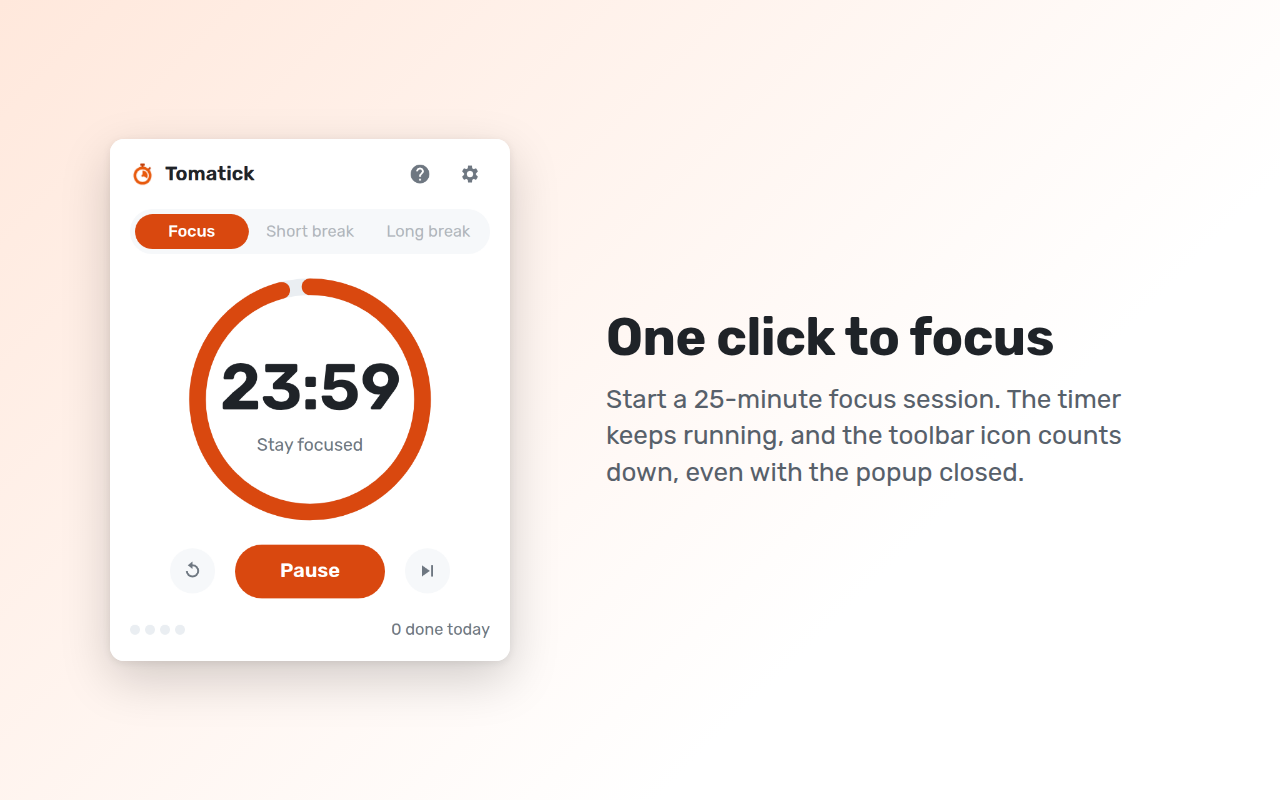
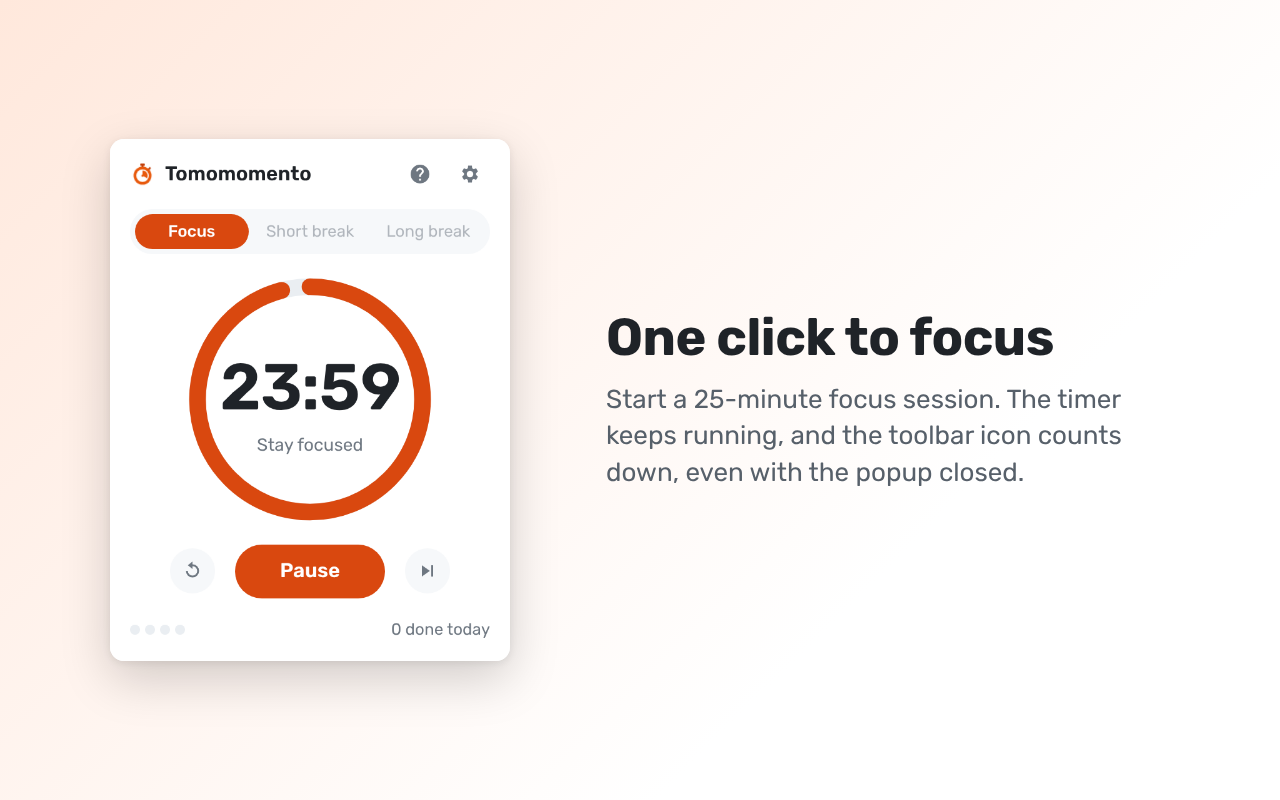
Rename the app to Tomomomento
Another free Pomodoro-style web timer already uses the name Tomatick
(tomatick.app), so the extension, web app, legal pages, README and store
kit now say Tomomomento ("Tomomomento: Focus Timer" in the store).
Store images are regenerated, and the small promo tile is resized to fit
the longer name.

Unchanged on purpose: the web app's storage keys and lock name (so current
users keep their settings), the GitHub repo URLs, and the support email,
until their replacements exist.

Claude-Session: https://claude.ai/code/session_016vYsunhsnhPfmSXmqhePFb

diff --git a/public/legal.html b/public/legal.html
@@ -8,7 +8,7 @@
   <head>
     <meta charset="utf-8" />
     <meta name="viewport" content="width=device-width, initial-scale=1" />
-    <title>Privacy, terms and credits · Tomatick</title>
+    <title>Privacy, terms and credits · Tomomomento</title>
     <link rel="icon" href="icons/icon-32.png" />
     <link rel="stylesheet" href="legal.css" />
   </head>
@@ -17,7 +17,7 @@
       <header>
         <img src="icons/icon-48.png" width="40" height="40" alt="" />
         <div>
-          <h1>Tomatick</h1>
+          <h1>Tomomomento</h1>
           <p class="muted">Last updated <span data-about="legalUpdated"></span></p>
         </div>
       </header>
@@ -32,7 +32,7 @@
       <section id="privacy">
         <h2>Privacy policy</h2>
         <p>
-          <strong>Tomatick doesn't collect, transmit, sell, or share any personal data.</strong>
+          <strong>Tomomomento doesn't collect, transmit, sell, or share any personal data.</strong>
           There's no account, no analytics, no ads, and no tracking.
         </p>
         <h3>What stays on your computer</h3>
@@ -54,7 +54,7 @@
               target="_blank"
               rel="noopener"
               >GitHub</a
-            >. Tomatick adds no cookies, analytics, or tracking, and makes no other network
+            >. Tomomomento adds no cookies, analytics, or tracking, and makes no other network
             requests.
           </li>
           <li>Alert sounds are generated on your device.</li>
@@ -72,12 +72,12 @@
             The optional site blocker compares the addresses of pages you open against your list of
             blocked sites, inside Chrome, while a focus session is running. It doesn't read page
             content, and it doesn't record or send your browsing history anywhere. Chrome asks your
-            permission when you turn it on, and Tomatick gives that permission back when you turn it
-            off.
+            permission when you turn it on, and Tomomomento gives that permission back when you turn
+            it off.
           </li>
         </ul>
         <h3>Deleting your data</h3>
-        <p data-only="extension">Uninstalling Tomatick deletes everything it stored.</p>
+        <p data-only="extension">Uninstalling Tomomomento deletes everything it stored.</p>
         <p data-only="web" hidden>
           Clearing this site's data in your browser's settings deletes everything the web app
           stored.
@@ -88,7 +88,7 @@
           them.
         </p>
         <h3>Children</h3>
-        <p>Tomatick collects no information from anyone, including children.</p>
+        <p>Tomomomento collects no information from anyone, including children.</p>
         <h3>Changes</h3>
         <p>
           If this policy changes, the new version will appear here and in the extension's store
@@ -98,18 +98,18 @@
 
       <section id="terms">
         <h2>Terms of use</h2>
-        <p>By installing or using Tomatick, you agree to these terms.</p>
-        <h3>Using Tomatick</h3>
+        <p>By installing or using Tomomomento, you agree to these terms.</p>
+        <h3>Using Tomomomento</h3>
         <p>
-          Tomatick is free, and always will be. You're welcome to use it for personal or work use.
-          Don't use it for anything unlawful.
+          Tomomomento is free, and always will be. You're welcome to use it for personal or work
+          use. Don't use it for anything unlawful.
         </p>
         <h3>No guarantees</h3>
         <p>
-          Tomatick is provided "as is", without warranties of any kind. I work to keep it reliable,
-          but I can't promise it will always be accurate, available, or free of bugs. For example, a
-          timer can end late if your computer sleeps. Don't rely on it for anything where a missed
-          alert could cause harm, like medication or cooking.
+          Tomomomento is provided "as is", without warranties of any kind. I work to keep it
+          reliable, but I can't promise it will always be accurate, available, or free of bugs. For
+          example, a timer can end late if your computer sleeps. Don't rely on it for anything where
+          a missed alert could cause harm, like medication or cooking.
         </p>
         <p>
           The site blocker is a focus aid, not a security or parental-control tool. It's easy to
@@ -118,11 +118,11 @@
         <h3>Limit of liability</h3>
         <p>
           To the fullest extent the law allows, I'm not liable for any damages or losses that come
-          from using, or not being able to use, Tomatick.
+          from using, or not being able to use, Tomomomento.
         </p>
         <h3>Ownership</h3>
         <p>
-          Tomatick, its code and its design are © <span data-about="copyrightYear"></span>
+          Tomomomento, its code and its design are © <span data-about="copyrightYear"></span>
           <span data-about="author"></span>. The source code is open under the
           <a
             href="https://github.com/jtpoltorak/tomatick/blob/main/LICENSE"
@@ -134,9 +134,9 @@
         </p>
         <h3>Changes and ending</h3>
         <p>
-          I may update these terms; the date at the top shows when they last changed. Using Tomatick
-          after a change means you accept the new terms. You can stop at any time by uninstalling
-          it.
+          I may update these terms; the date at the top shows when they last changed. Using
+          Tomomomento after a change means you accept the new terms. You can stop at any time by
+          uninstalling it.
         </p>
       </section>
 
@@ -163,21 +163,21 @@
         </ul>
         <p class="muted">
           Pomodoro® and the Pomodoro Technique® are registered trademarks of Francesco Cirillo.
-          Tomatick is an independent timer and isn't affiliated with, associated with, or endorsed
-          by Francesco Cirillo or the Pomodoro Technique®.
+          Tomomomento is an independent timer and isn't affiliated with, associated with, or
+          endorsed by Francesco Cirillo or the Pomodoro Technique®.
         </p>
       </section>
 
       <section id="contact">
         <h2>Contact</h2>
         <p>
-          Questions, bug reports, or ideas: <a data-about="email"></a>. Tomatick is made by one
+          Questions, bug reports, or ideas: <a data-about="email"></a>. Tomomomento is made by one
           person, <span data-about="author"></span>.
         </p>
       </section>
 
       <footer class="muted">
-        Tomatick <span data-about="version"></span> · © <span data-about="copyrightYear"></span>
+        Tomomomento <span data-about="version"></span> · © <span data-about="copyrightYear"></span>
         <span data-about="author"></span>
       </footer>
     </main>

diff --git a/src/popup/app/help-view/help-view.html b/src/popup/app/help-view/help-view.html
@@ -17,7 +17,7 @@
       </li>
       <li>Press <kbd>Space</kbd> to start or pause.</li>
       <li>
-        To keep Tomatick in its own window, install it from your browser's menu (look for
+        To keep Tomomomento in its own window, install it from your browser's menu (look for
         <strong>Install</strong> or <strong>Add to Home Screen</strong>).
       </li>
     } @else {
@@ -26,7 +26,7 @@
       </li>
       <li>
         Press <kbd>Space</kbd> to start or pause, and <kbd>Alt</kbd>+<kbd>Shift</kbd>+<kbd>P</kbd>
-        to open Tomatick.
+        to open Tomomomento.
       </li>
     }
     <li>
@@ -82,8 +82,8 @@
     </ul>
   </details>
   <p class="trademark">
-    Pomodoro® and the Pomodoro Technique® are registered trademarks of Francesco Cirillo. Tomatick
-    isn't affiliated with or endorsed by Francesco Cirillo.
+    Pomodoro® and the Pomodoro Technique® are registered trademarks of Francesco Cirillo.
+    Tomomomento isn't affiliated with or endorsed by Francesco Cirillo.
   </p>
 </section>
 
@@ -101,5 +101,5 @@
     <a href="legal.html#terms" target="_blank">Terms</a>
     <a href="legal.html#credits" target="_blank">Credits</a>
   </nav>
-  <p class="fine">Tomatick {{ version }} · © {{ about.copyrightYear }} {{ about.author }}</p>
+  <p class="fine">Tomomomento {{ version }} · © {{ about.copyrightYear }} {{ about.author }}</p>
 </footer>

diff --git a/src/background/background.ts b/src/background/background.ts
@@ -118,13 +118,13 @@ async function updateBadge(state: TimerState, justFinished = false): Promise<voi
     await chrome.action.setBadgeBackgroundColor({ color: BADGE_COLORS[state.phase] });
     await chrome.action.setBadgeText({ text: '✓' });
     await chrome.action.setTitle({
-      title: `Tomatick: time for your ${PHASE_LABELS[state.phase].toLowerCase()}`,
+      title: `Tomomomento: time for your ${PHASE_LABELS[state.phase].toLowerCase()}`,
     });
     return;
   }
   if (state.status === 'idle') {
     await chrome.action.setBadgeText({ text: '' });
-    await chrome.action.setTitle({ title: `Tomatick: ${PHASE_LABELS[state.phase]} ready` });
+    await chrome.action.setTitle({ title: `Tomomomento: ${PHASE_LABELS[state.phase]} ready` });
     return;
   }
   const minutesLeft = Math.ceil(remainingMs(state, Date.now()) / 60_000);
@@ -134,7 +134,7 @@ async function updateBadge(state: TimerState, justFinished = false): Promise<voi
   await chrome.action.setBadgeText({ text: `${minutesLeft}m` });
   const verb = state.status === 'paused' ? 'paused' : 'running';
   await chrome.action.setTitle({
-    title: `Tomatick: ${PHASE_LABELS[state.phase]} ${verb}, ${minutesLeft} min left`,
+    title: `Tomomomento: ${PHASE_LABELS[state.phase]} ${verb}, ${minutesLeft} min left`,
   });
 }
 

diff --git a/src/web/web-timer-host.ts b/src/web/web-timer-host.ts
@@ -25,6 +25,8 @@ import {
 } from '../shared/timer';
 import type { HostSnapshot, TimerHost } from '../popup/app/timer-host';
 
+// These keep the app's original name (Tomatick) so people who already use the
+// web app keep their settings, and old and new tabs share one timer.
 const KEYS = {
   settings: 'tomatick.settings',
   state: 'tomatick.state',
@@ -32,7 +34,7 @@ const KEYS = {
 };
 const LOCK_NAME = 'tomatick-timer';
 const NOTIFICATION_TAG = 'phase-complete';
-const APP_TITLE = 'Tomatick: Focus Timer';
+const APP_TITLE = 'Tomomomento: Focus Timer';
 
 function read<T>(key: string): T | undefined {
   try {
@@ -186,9 +188,9 @@ export class WebTimerHost implements TimerHost {
     if (state.status === 'running' || state.status === 'paused') {
       const clock = formatClock(remainingMs(state, Date.now()));
       const paused = state.status === 'paused' ? ' (paused)' : '';
-      document.title = `${clock} ${label}${paused} · Tomatick`;
+      document.title = `${clock} ${label}${paused} · Tomomomento`;
     } else if (this.justFinished) {
-      document.title = `✓ Time for your ${label.toLowerCase()} · Tomatick`;
+      document.title = `✓ Time for your ${label.toLowerCase()} · Tomomomento`;
     } else {
       document.title = APP_TITLE;
     }

diff --git a/src/web/web-timer-host.spec.ts b/src/web/web-timer-host.spec.ts
@@ -22,15 +22,15 @@ describe('WebTimerHost', () => {
 
     const res = await host.send({ command: 'start' });
     expect(res.ok && res.state.status).toBe('running');
-    expect(document.title).toBe('25:00 Focus · Tomatick');
+    expect(document.title).toBe('25:00 Focus · Tomomomento');
 
     await vi.advanceTimersByTimeAsync(60_000);
-    expect(document.title).toBe('24:00 Focus · Tomatick');
+    expect(document.title).toBe('24:00 Focus · Tomomomento');
 
     await vi.advanceTimersByTimeAsync(24 * 60_000 + 100);
     const { state } = await host.load();
     expect(state).toMatchObject({ phase: 'shortBreak', status: 'idle', completedToday: 1 });
-    expect(document.title).toBe('✓ Time for your short break · Tomatick');
+    expect(document.title).toBe('✓ Time for your short break · Tomomomento');
     expect(changes).toHaveBeenCalled();
   });
 

diff --git a/src/popup/app/settings-view/settings-view.html b/src/popup/app/settings-view/settings-view.html
@@ -122,7 +122,7 @@
     <h2>Site blocker</h2>
     @if (isWeb) {
       <p class="note">
-        Blocking sites needs the Tomatick Chrome extension, because a web page can't change what
+        Blocking sites needs the Tomomomento Chrome extension, because a web page can't change what
         other tabs load.
       </p>
     } @else {
@@ -174,7 +174,7 @@
           }
         </div>
       } @else {
-        <p class="note">Chrome will ask to let Tomatick redirect sites when you turn this on.</p>
+        <p class="note">Chrome will ask to let Tomomomento redirect sites when you turn this on.</p>
       }
     }
   </section>

diff --git a/src/web/index.html b/src/web/index.html
@@ -2,7 +2,7 @@
 <html lang="en">
   <head>
     <meta charset="utf-8" />
-    <title>Tomatick: Focus Timer</title>
+    <title>Tomomomento: Focus Timer</title>
     <base href="./" />
     <meta name="viewport" content="width=device-width, initial-scale=1" />
     <meta
@@ -17,6 +17,6 @@
   </head>
   <body>
     <app-root></app-root>
-    <noscript>Tomatick needs JavaScript to run the timer.</noscript>
+    <noscript>Tomomomento needs JavaScript to run the timer.</noscript>
   </body>
 </html>

diff --git a/src/blocked/blocked.ts b/src/blocked/blocked.ts
@@ -34,7 +34,7 @@ function setMessage(before: string, after: string): void {
 
 function render(state: TimerState, blocking: boolean): void {
   clearInterval(tick);
-  document.title = `${site} is ${blocking ? 'blocked' : 'unblocked'} · Tomatick`;
+  document.title = `${site} is ${blocking ? 'blocked' : 'unblocked'} · Tomomomento`;
   if (blocking) {
     title.textContent = 'Stay focused';
     setMessage('', ' is blocked until your focus session ends.');

diff --git a/src/popup/app/help-view/help-view.ts b/src/popup/app/help-view/help-view.ts
@@ -12,5 +12,5 @@ export class HelpView {
   protected readonly about = ABOUT;
   protected readonly version = globalThis.chrome?.runtime?.getManifest?.().version ?? APP_VERSION;
   protected readonly isWeb = inject(PLATFORM) === 'web';
-  protected readonly mailto = `mailto:${ABOUT.email}?subject=${encodeURIComponent('Tomatick feedback')}`;
+  protected readonly mailto = `mailto:${ABOUT.email}?subject=${encodeURIComponent('Tomomomento feedback')}`;
 }

diff --git a/src/popup/app/settings-view/settings-view.spec.ts b/src/popup/app/settings-view/settings-view.spec.ts
@@ -129,6 +129,6 @@ describe('SettingsView', () => {
   it('explains that the web app has no site blocker', async () => {
     const { el } = await setup('web');
     expect(el.querySelector('input[role=switch]:not([formcontrolname])')).toBeNull();
-    expect(el.textContent).toContain('needs the Tomatick Chrome extension');
+    expect(el.textContent).toContain('needs the Tomomomento Chrome extension');
   });
 });

diff --git a/src/popup/app/app.html b/src/popup/app/app.html
@@ -8,7 +8,7 @@
     <h1>{{ view() === 'settings' ? 'Settings' : 'Help' }}</h1>
   } @else {
     <img src="icons/icon-32.png" width="20" height="20" alt="" />
-    <h1>Tomatick</h1>
+    <h1>Tomomomento</h1>
     <button class="icon-btn ghost" (click)="show('help')" aria-label="Help" title="Help">
       <svg viewBox="0 0 24 24" aria-hidden="true">
         <path

diff --git a/public/blocked.html b/public/blocked.html
@@ -4,7 +4,7 @@
   <head>
     <meta charset="utf-8" />
     <meta name="viewport" content="width=device-width, initial-scale=1" />
-    <title>Stay focused · Tomatick</title>
+    <title>Stay focused · Tomomomento</title>
     <link rel="icon" href="icons/icon-32.png" />
     <link rel="stylesheet" href="blocked.css" />
   </head>
